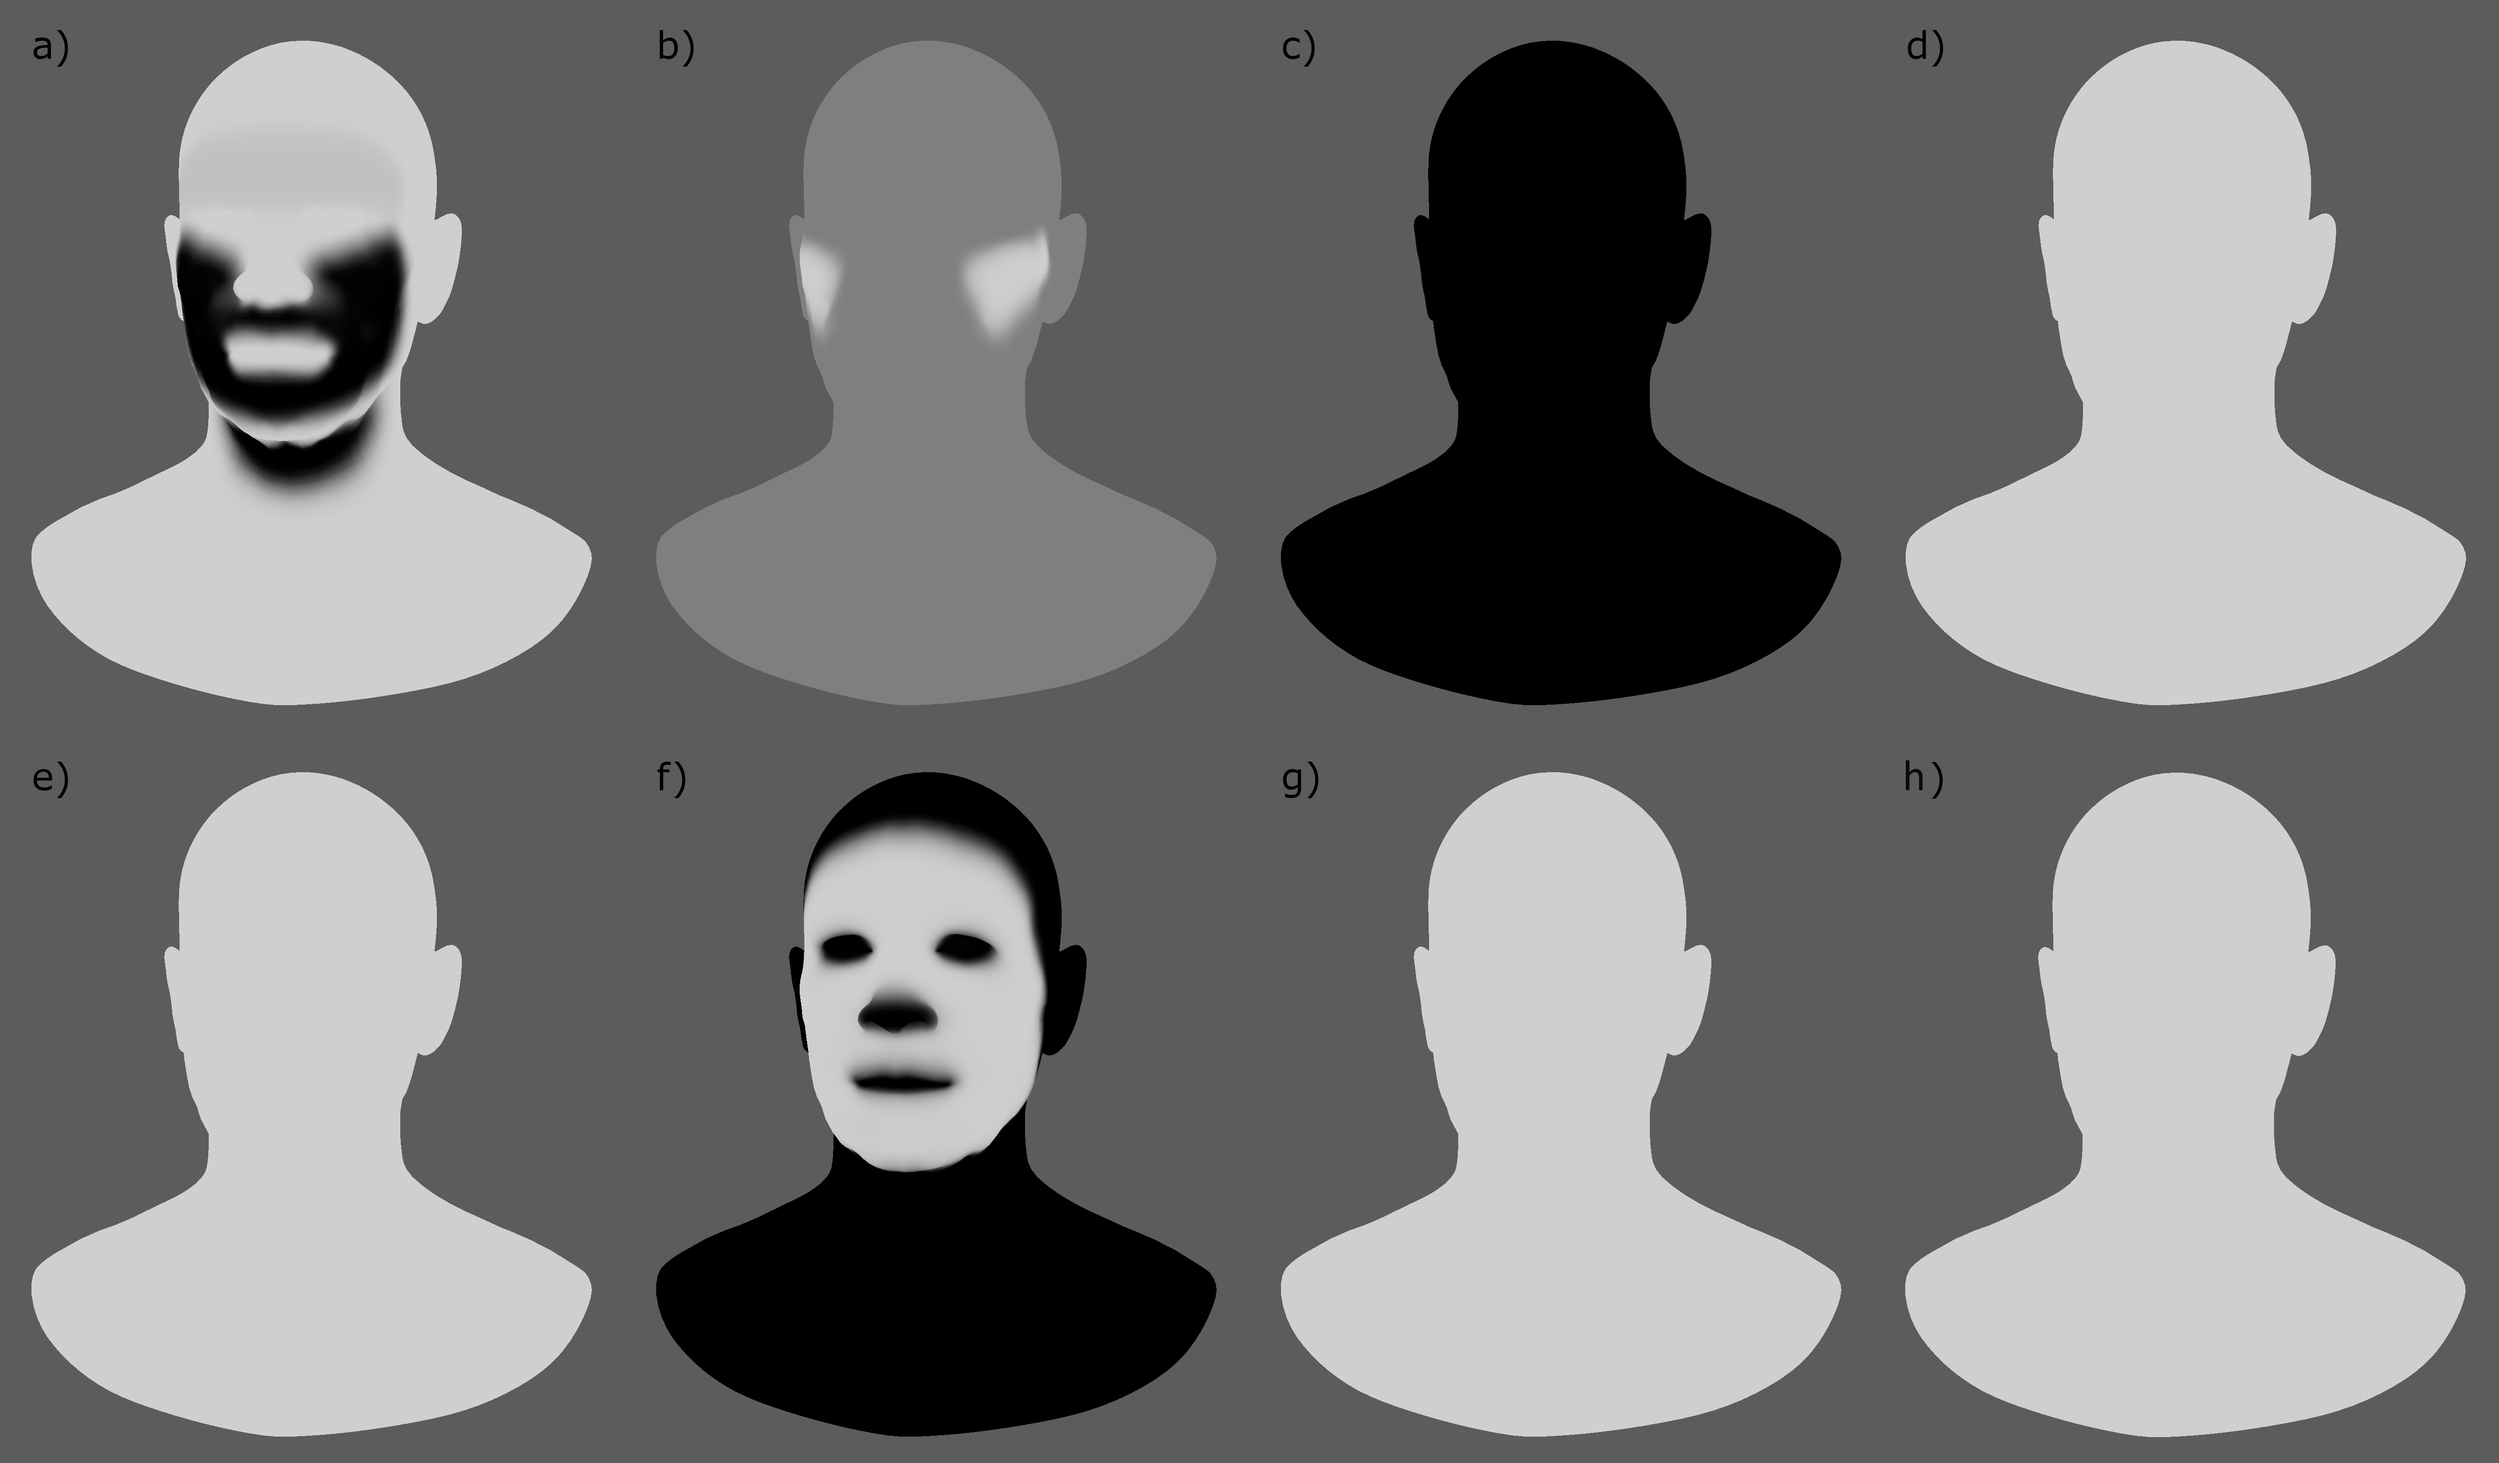
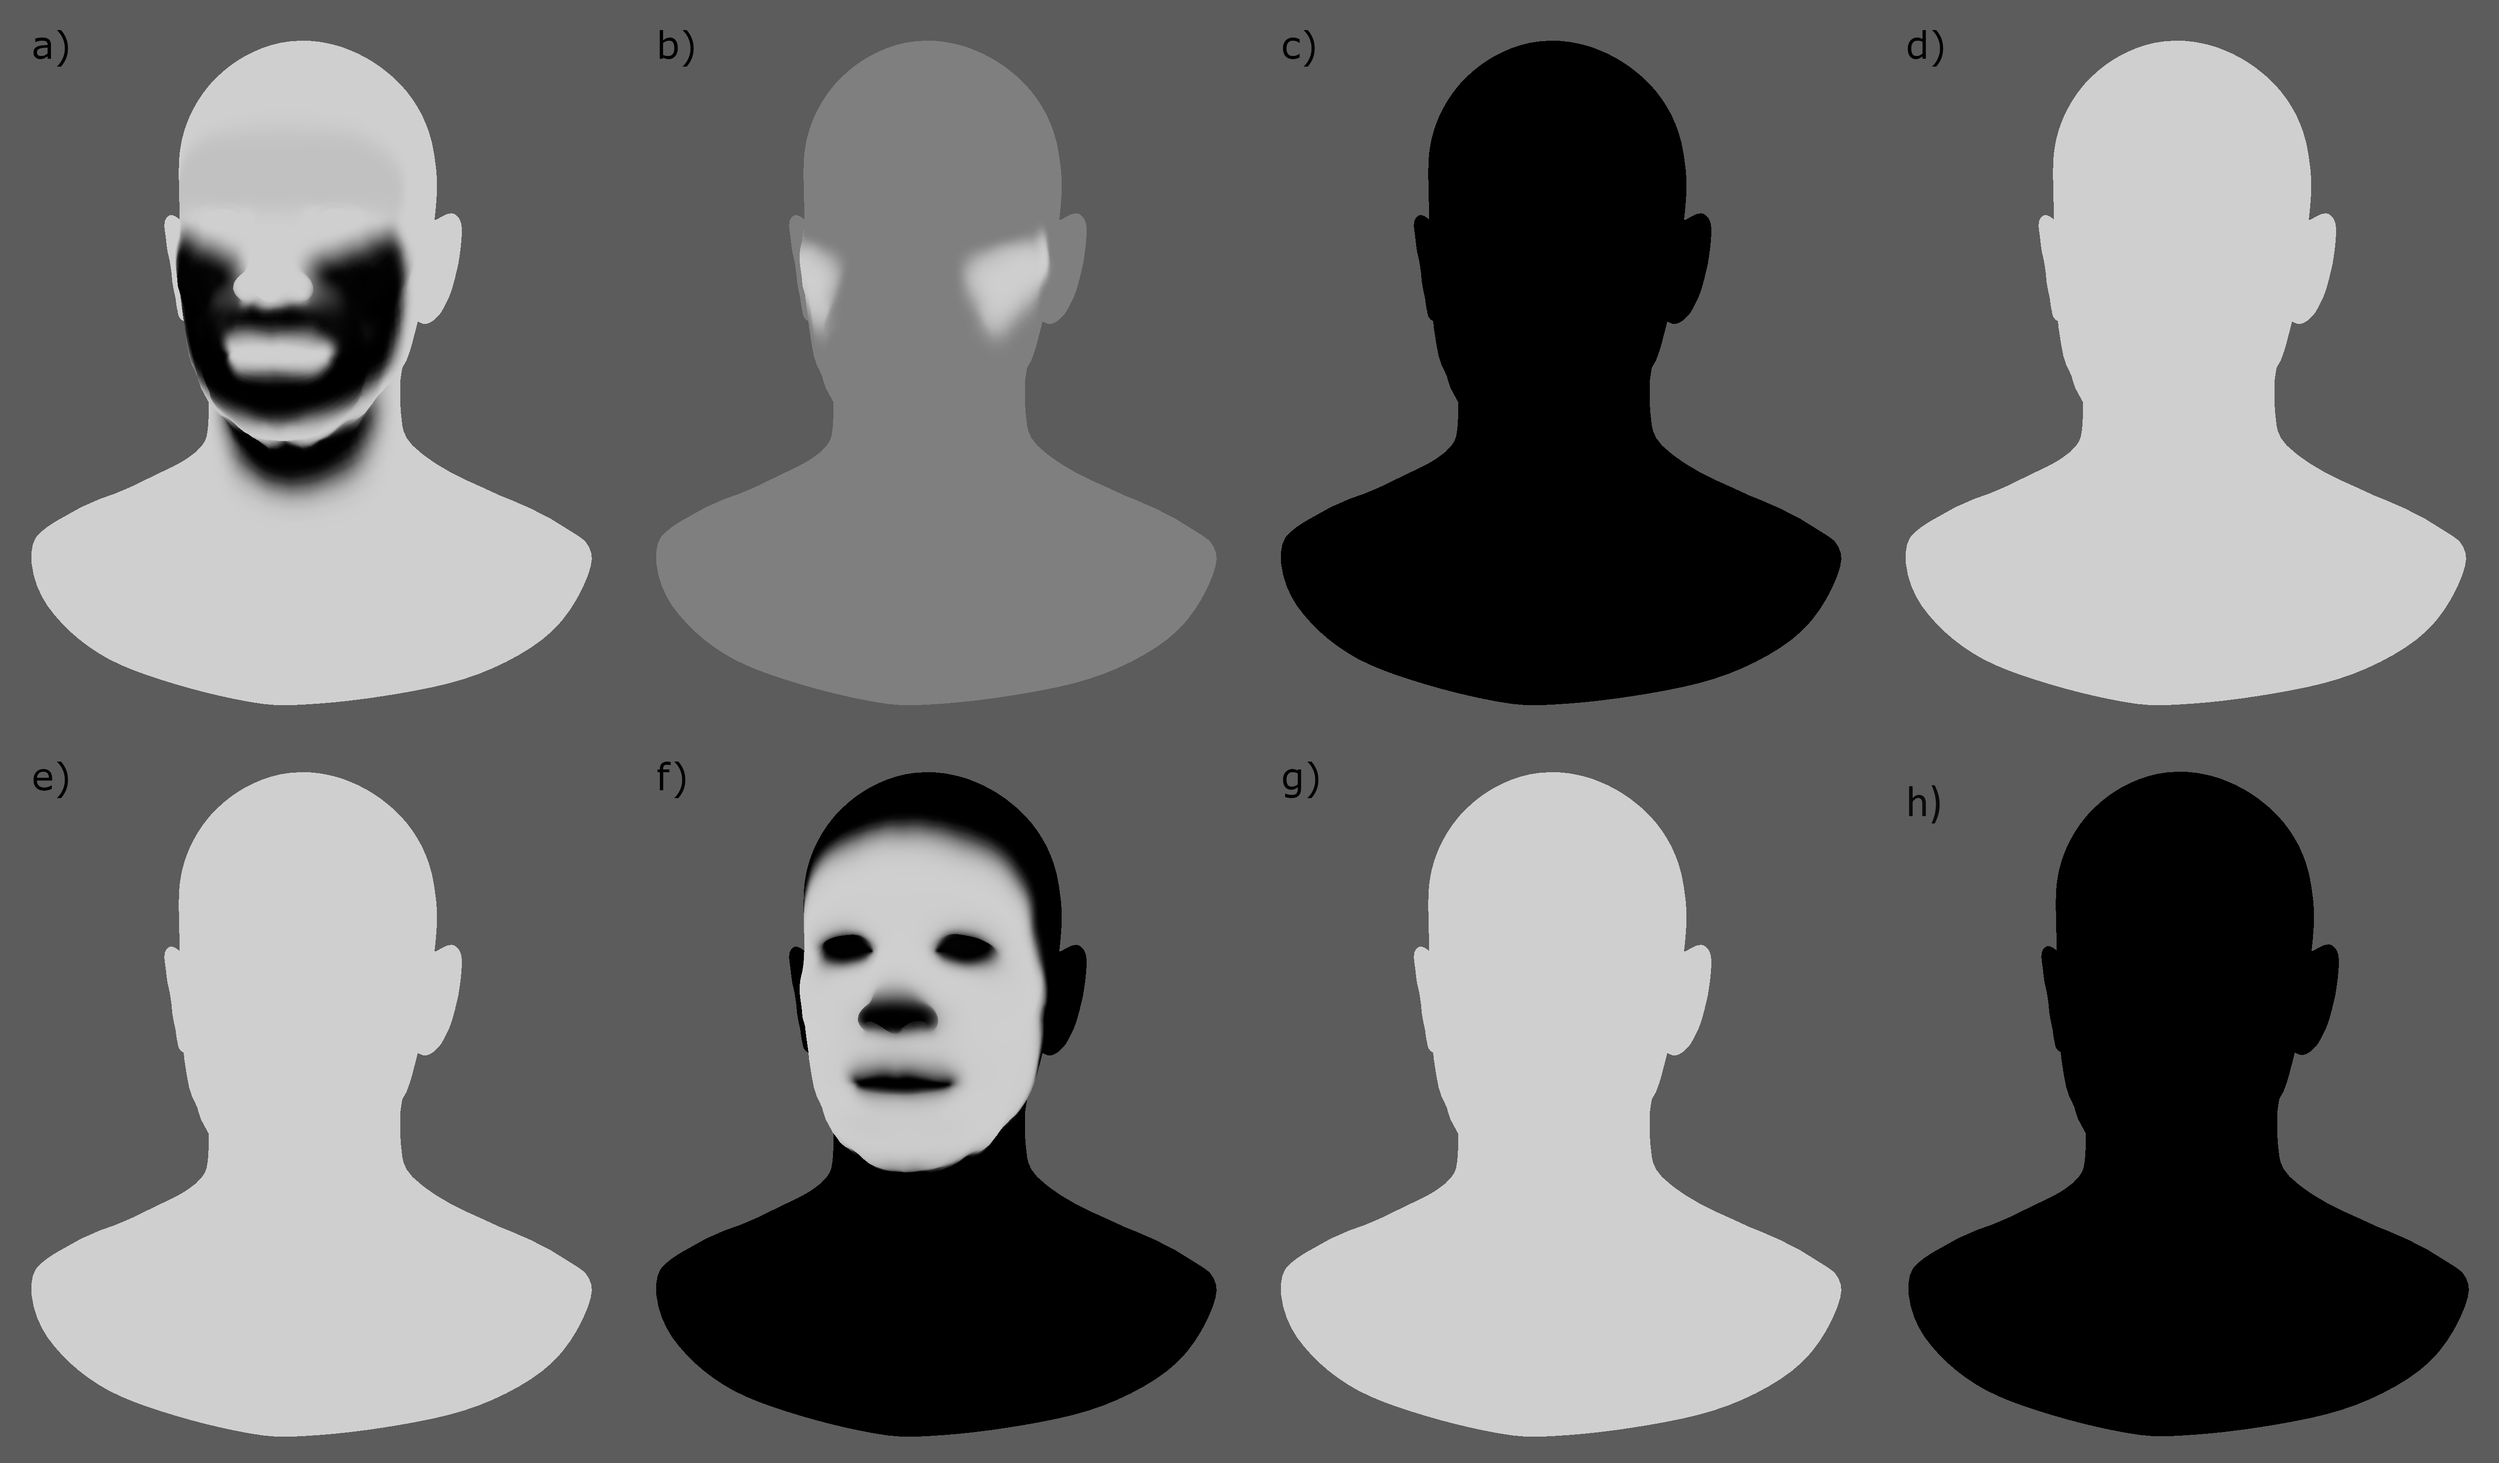
Corrected images, added debug image to skin.

Changed region(s): [[0.7467, 0.5269, 0.9956, 0.9918], [0.7467, 0.5269, 0.7778, 0.5579]]

diff --git a/docs/maya/skin.md b/docs/maya/skin.md
@@ -150,3 +150,8 @@ To enable the debugger the *Debug* checkbox must be marked. To select the specif
   ![skin editor debug example](images/skin_debug.png)
   <figcaption><b>Figure 5</b>: In gray the reference mesh, in orange the simulated skin. Debugger enabled displaying a test example with <i>Soft Constraints</i> colored in green.</figcaption>
 </figure>
+
+<figure markdown>
+  ![skin editor sliding surface debug](images/skin_debug_slide_surface.png)
+  <figcaption><b>Figure 6</b>: In gray the reference mesh, in red the simulated skin. Debugger enabled displaying the <i>Sliding Surface</i> colored in green.</figcaption>
+</figure>
